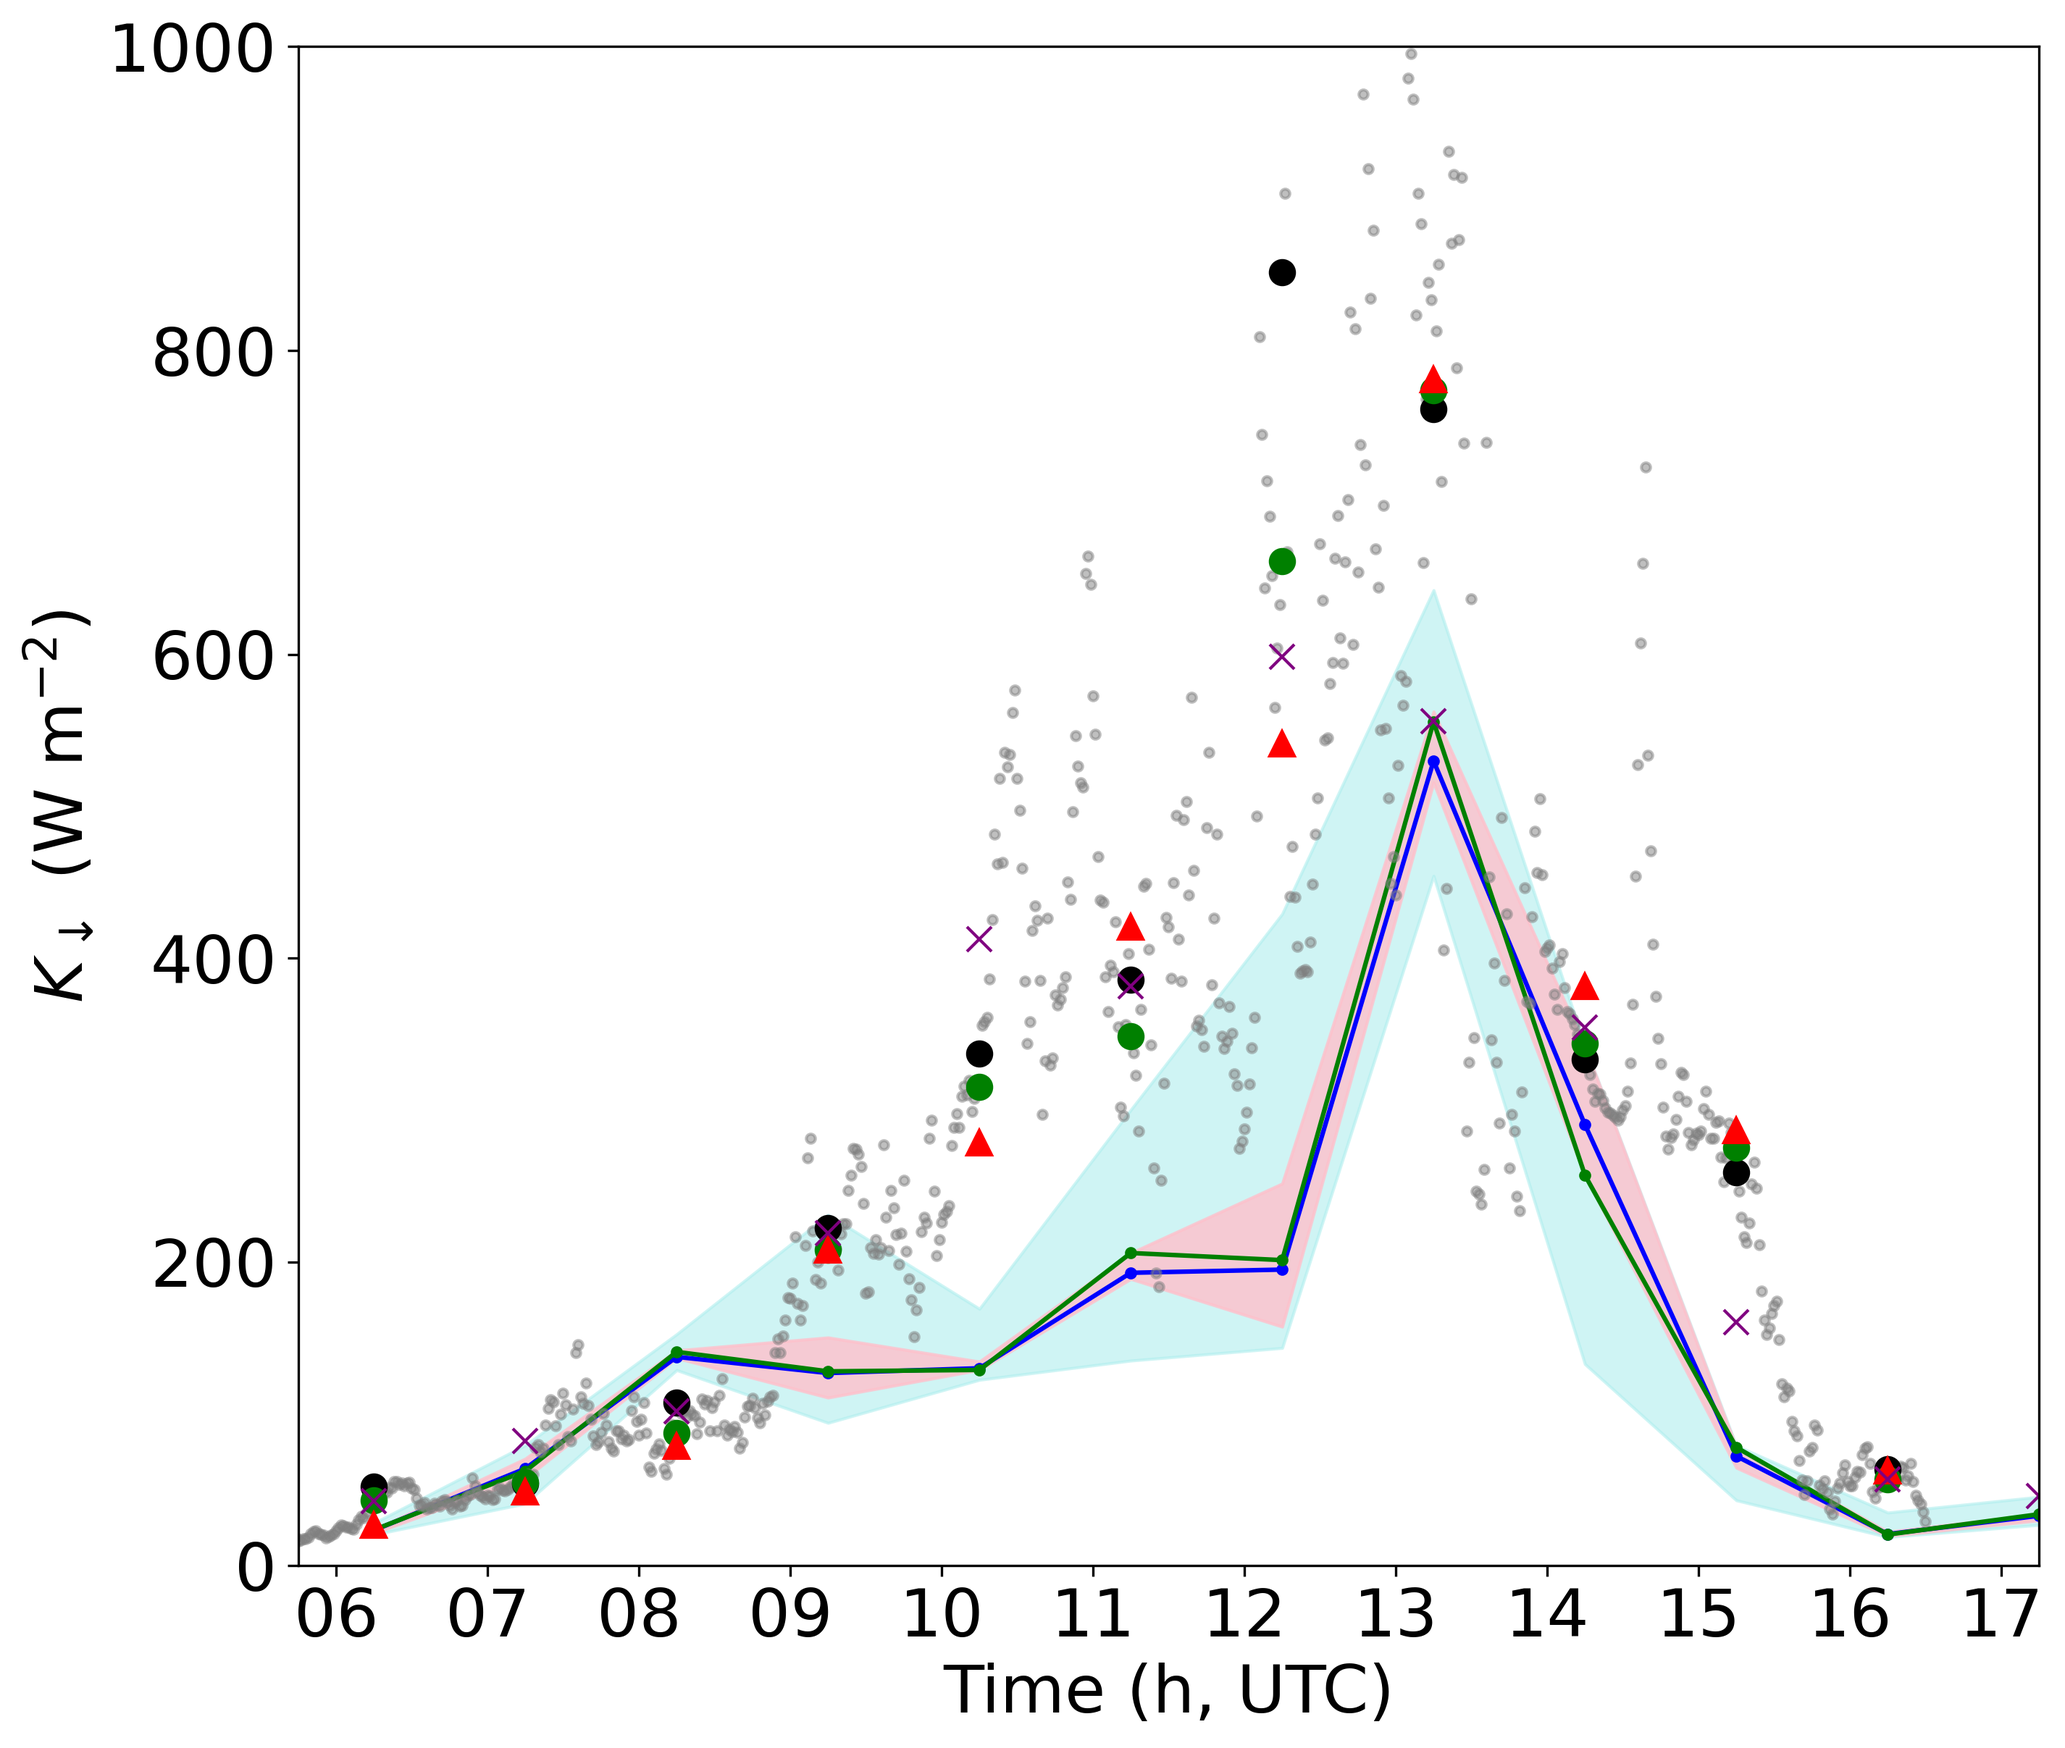
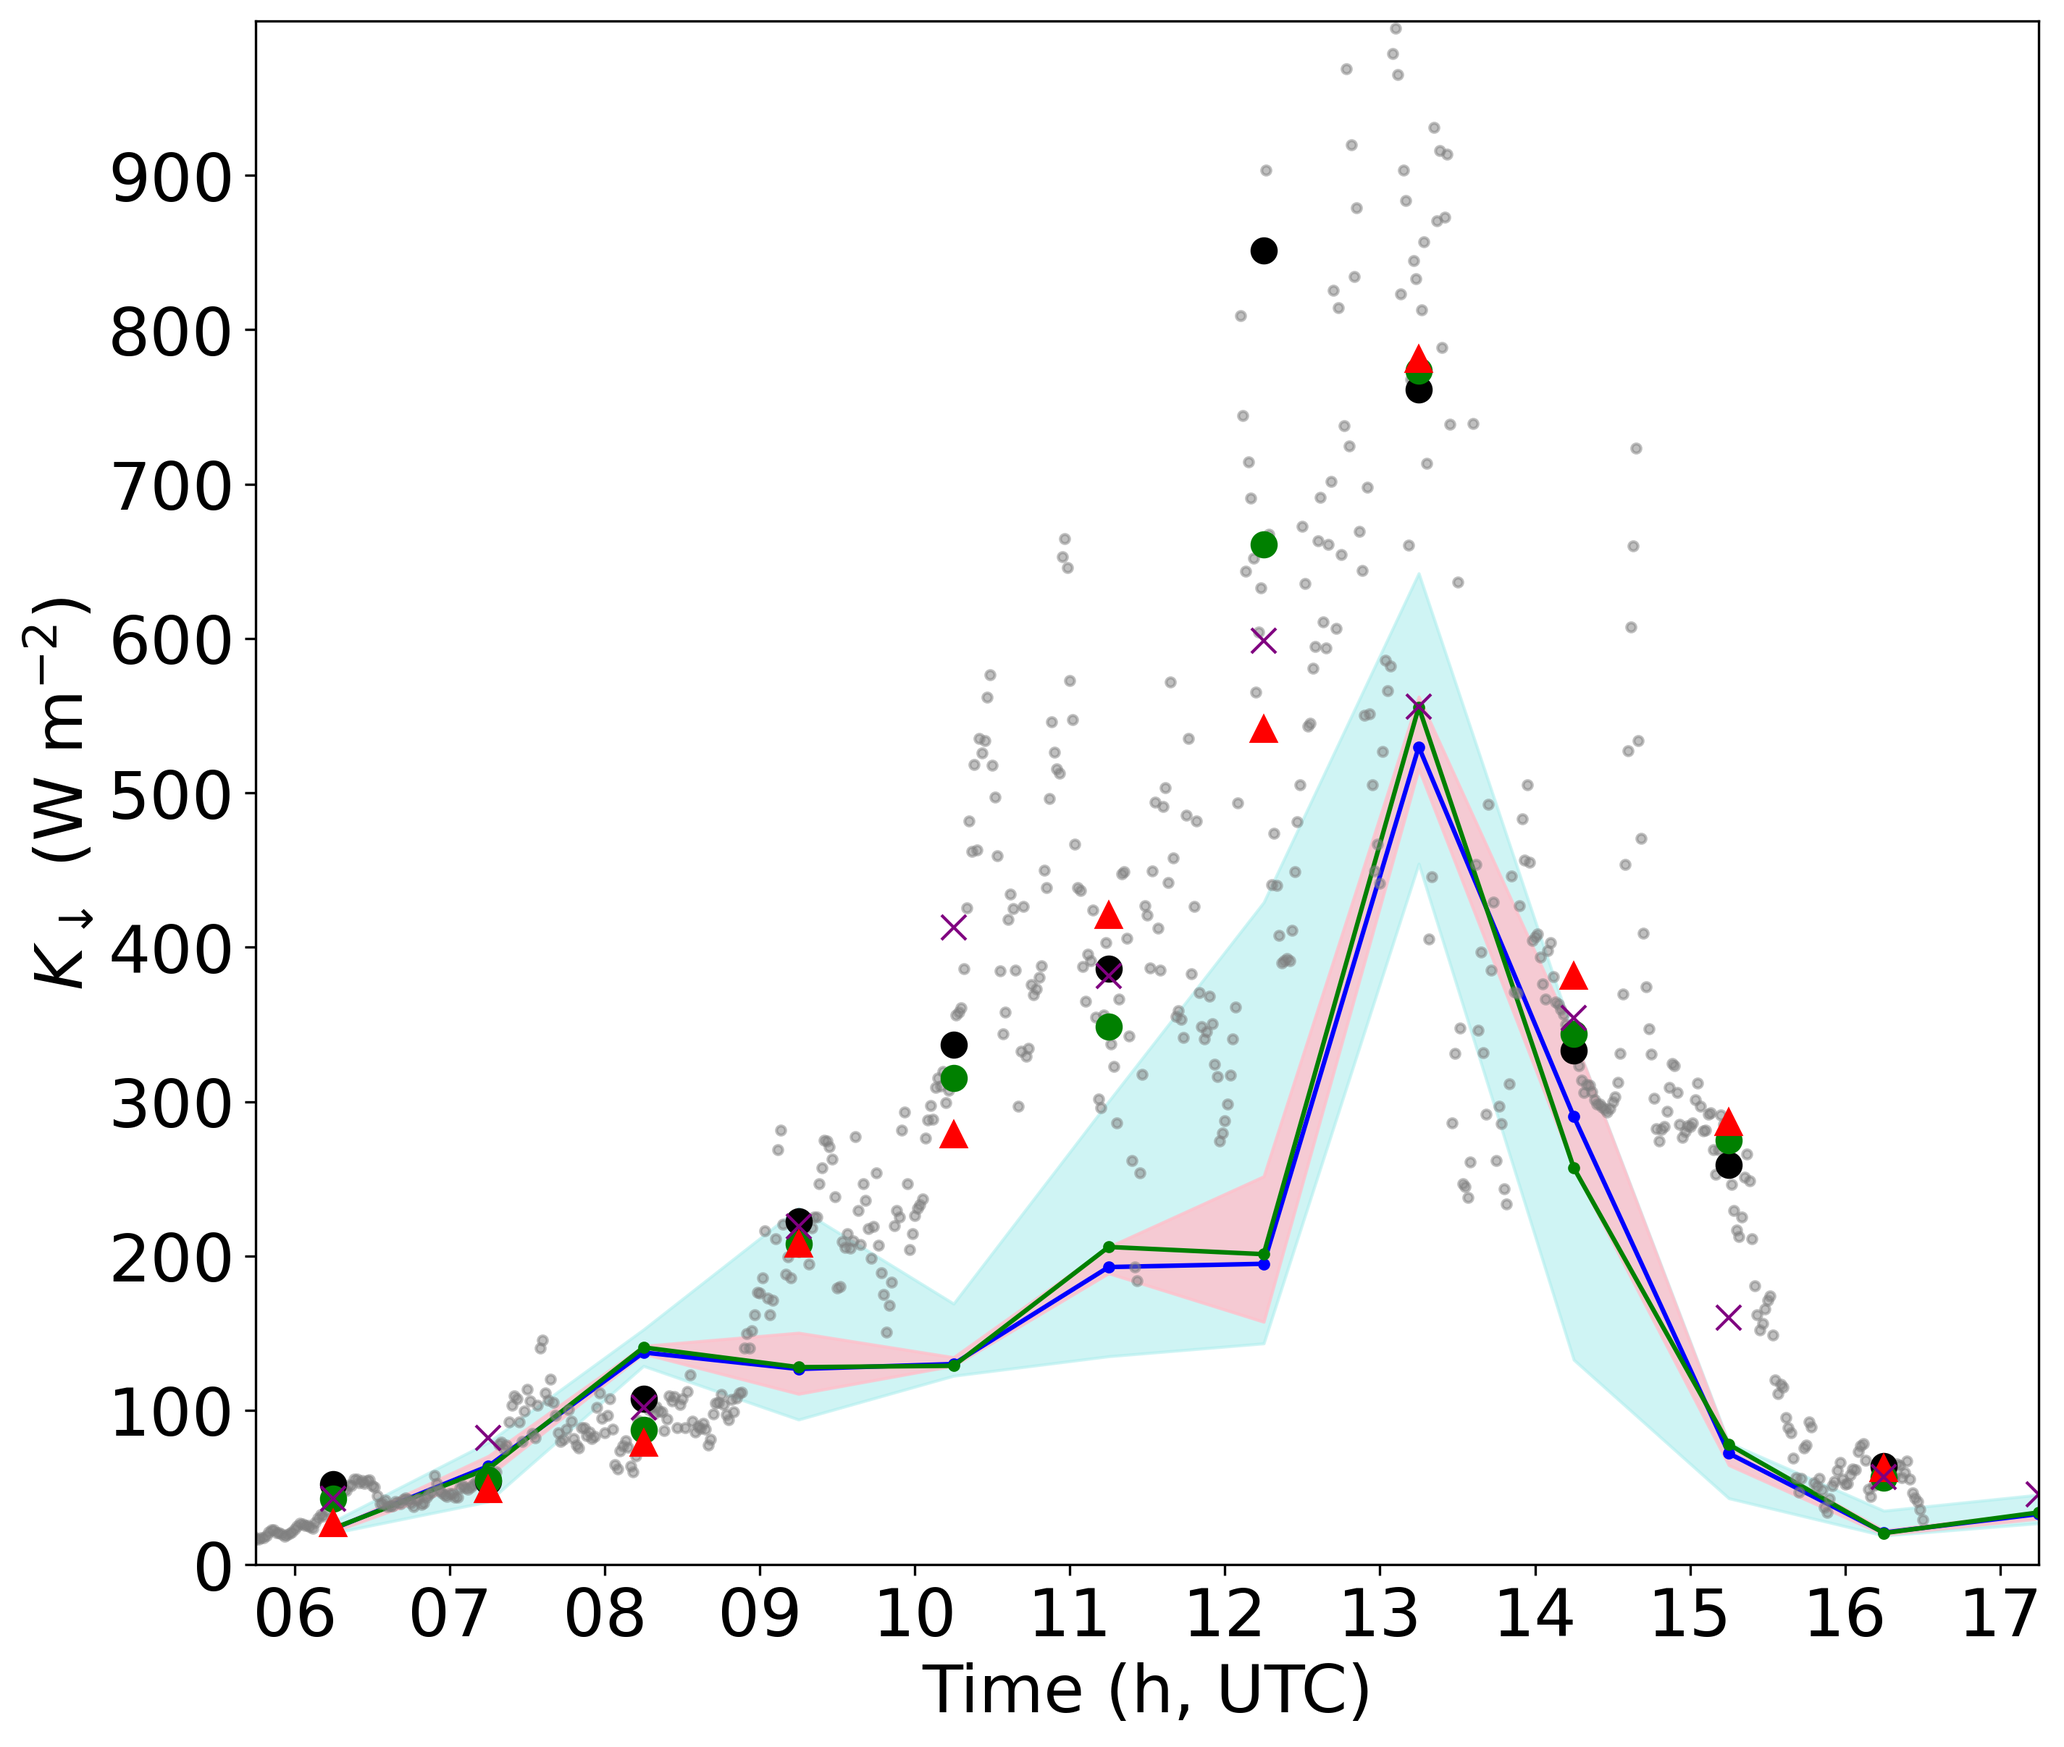
prune kdown's upper label - to make panels same size

diff --git a/scint_plots/detailed_time_series/detailed_time_series_funs.py b/scint_plots/detailed_time_series/detailed_time_series_funs.py
@@ -226,6 +226,10 @@ def detailed_time_series(obs_df,
         ax1.set_xlabel('Time (h, UTC)')
         # plt.gcf().autofmt_xdate()
 
+    if variable == 'kdown':
+        from matplotlib.ticker import MaxNLocator
+        ax1.yaxis.set_major_locator(MaxNLocator(prune='upper'))
+
     plt.tight_layout()
 
     plt.savefig('./' + obs_df.index[0].strftime('%Y%j') + '_' + str(variable) + '_detail_time_series.png',
